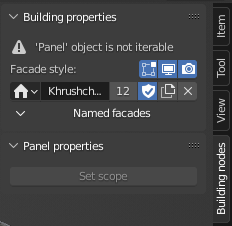
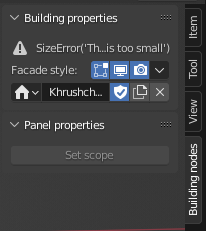
user interface content and some fixes

diff --git a/docs/user_interface.rst b/docs/user_interface.rst
@@ -10,21 +10,51 @@ Building nodes panel
 .. figure:: /images/ui/Building_nodes_panel.*
    :align: right
 
+.. todo rename facade style on the picture
 
 ``3d Viewport -> property panel``
 
 Building properties
 -------------------
 
-**Error massage**
+Error massage
+  It is shown if there was an :ref:`error <errors>` during building style
+  execution.
 
-**Show in edit mode**
+Show in edit mode
+  In edit mode base mesh and building panels will be displayed simultaneously.
+  Editing base mesh will force to update building style. Read about 
+  :ref:`limitations` of this mode.
 
-**Realtime**
+Realtime
+  If enabled any changes in a tree of a building style will cause rebuild the
+  building model.
 
-**Show in render**
+Show in render
+  Show building style during render.
 
-**Building style tre**
+Apply style (to active)
+  Operator which bakes building style into the base mesh.
+
+Apply style (to selected)
+  Operator which bakes building style of selected objects.
+
+Apply current style (to all)
+  Operator which bakes building styles of all visible objects in case if the
+  style is the same with the style of active object.
+
+Link style to selected
+  It works similar to other linking functionality of Blender. The operator
+  assign building style of active object to selected objects. Also it can remove
+  building style in case if active objects does not have any style. It also is
+  available via *Link/Transfer data menu* ``Ctrl + l``.
+
+Select with the same style
+  The operator selects all visible objects which have the same building style
+  as active object.
+
+Building style tree
+  Node tree which should be used to generate building
 
 
 Panel properties
@@ -32,37 +62,45 @@ Panel properties
 
 .. _set_scope_operator:
 
-**Set scope**
-
-
-Link/Transfer data menu
-=======================
-
-**Link Building style**
+Set scope
+  This is an operator which serves two purposes. It sets origin of the active
+  object and its bounding box which is used by Building style editor during
+  distribution of panels. In order to use it a :ref:`panel <panels>` should be
+  in edit mode and at list two points, corners of bounding box, should be
+  selected. Don't use the operator in edit mode of multiple objects.
 
 
 Node tree interface
 ===================
+
+.. figure:: /images/ui/Node_settings.*
+   :align: right
 
 In case if you are nof familiar with Blender tree interface here is official
 `documentation`_ about them.
 
 .. _documentation: https://docs.blender.org/manual/en/latest/interface/controls/nodes/index.html
 
-Node inputs / outputs
-  Sockets which expect complex data structure as Panels, Floors etc.
+Unlike Blender build-in nodes in the add-on nearly all nodes have settings.
+To open the settings press on the gear picture located in first output socket
+of a node. Settings are divided on two parts:
 
 Node properties
-  A property of a node can be a socket or enum. Sockets have some simple value
-  like float, integer, boolean etc. Properties can be found in node settings
-  panel (located directly on a node) or in ``property panel -> node -> properties``
-  . Properties are associated with logic of node where they are defined or
+  Properties of a node are presented as sockets of some elementary data
+  structure as number, string, enum etc. By default most of them are hidden.
+  It's possible to change them without showing them in tree UI or it's possible
+  to show them py switching show property.
+
+  Properties are associated with logic of node where they are defined or
   with data structure which is produced by this node. For example parameter
-  size of :doc:`/nodes/facade/facade_pattern` is associated with facade which
-  is generated by the node.
+  height of a :doc:`/nodes/floor/floor_pattern` is associated with floor which
+  is generated by the node. Also properties can be used by another upstream
+  nodes.
+
+  Also this properties can be found in ``property panel -> node -> properties``. 
 
 Node remote properties
-  This properties can be found only in node settings. The difference between
+  The difference between
   normal node properties is that the remote properties are not define in a
   node where they are shown but in some downstream node. It shows which
   remote properties are used by the node.

diff --git a/docs/execution_system.rst b/docs/execution_system.rst
@@ -35,6 +35,14 @@ Both updates can be enabled/disabled via :ref:`main panel <main_panel>`.
    tree can be recreated from scratch without saving any changes in previous
    one.
 
+.. warning::
+
+   Also there is problem of copying an object with building style. When initial
+   object is edited the copied object will repeat the shape of this changes.
+   In order to make changes of the copy fully separate from initial object
+   either building style tree should be updated (by dragging a link for
+   example) or the copy should be put in edit mode.
+
 .. _tree_editor:
 
 -----------
@@ -57,3 +65,19 @@ standard tree editors except a few things.
 .. _problem1: https://developer.blender.org/T90233
 .. _problem2: https://developer.blender.org/T88795
 .. _problem3: https://developer.blender.org/T82812
+
+
+.. _errors:
+
+Errors
+^^^^^^
+
+During tree execution there can be some errors which prevents building being
+updated. Errors are shown on the :ref:`main panel <main_panel>`. It can be some
+low level error which message is not very helpful and can be considered as bug.
+Or it can be a high level error:
+
+- Size error
+    It means that some of the panels has 0 height or 0 length. Panels can have
+    0 length along any axis but not when it used to fill some space. For example
+    a panel should has length if it is used to fill a floor.

diff --git a/docs/data_structure.rst b/docs/data_structure.rst
@@ -102,8 +102,8 @@ Panel can be created with :doc:`/nodes/panel/panel`.
    Also it's important to know that origin is also took into account during
    panels instancing. Typically it should be in the center of a panel.
 
-If `XY` orientation of the panels is not convenient you can always rotate and
-move panels in object mode however you like.
+   If `XY` orientation of the panels is not convenient you can always rotate and
+   move panels in object mode however you like.
 
 By default the size of a panel is determined by its bounding box, but it's
 possible override the size with :ref:`Set scope operator <set_scope_operator>`. 

diff --git a/docs/index.rst b/docs/index.rst
@@ -36,6 +36,8 @@ Main features
    Editing buildings in real time.
 
 
+.. _limitations:
+
 Limitations / roadmap
 ---------------------
 
